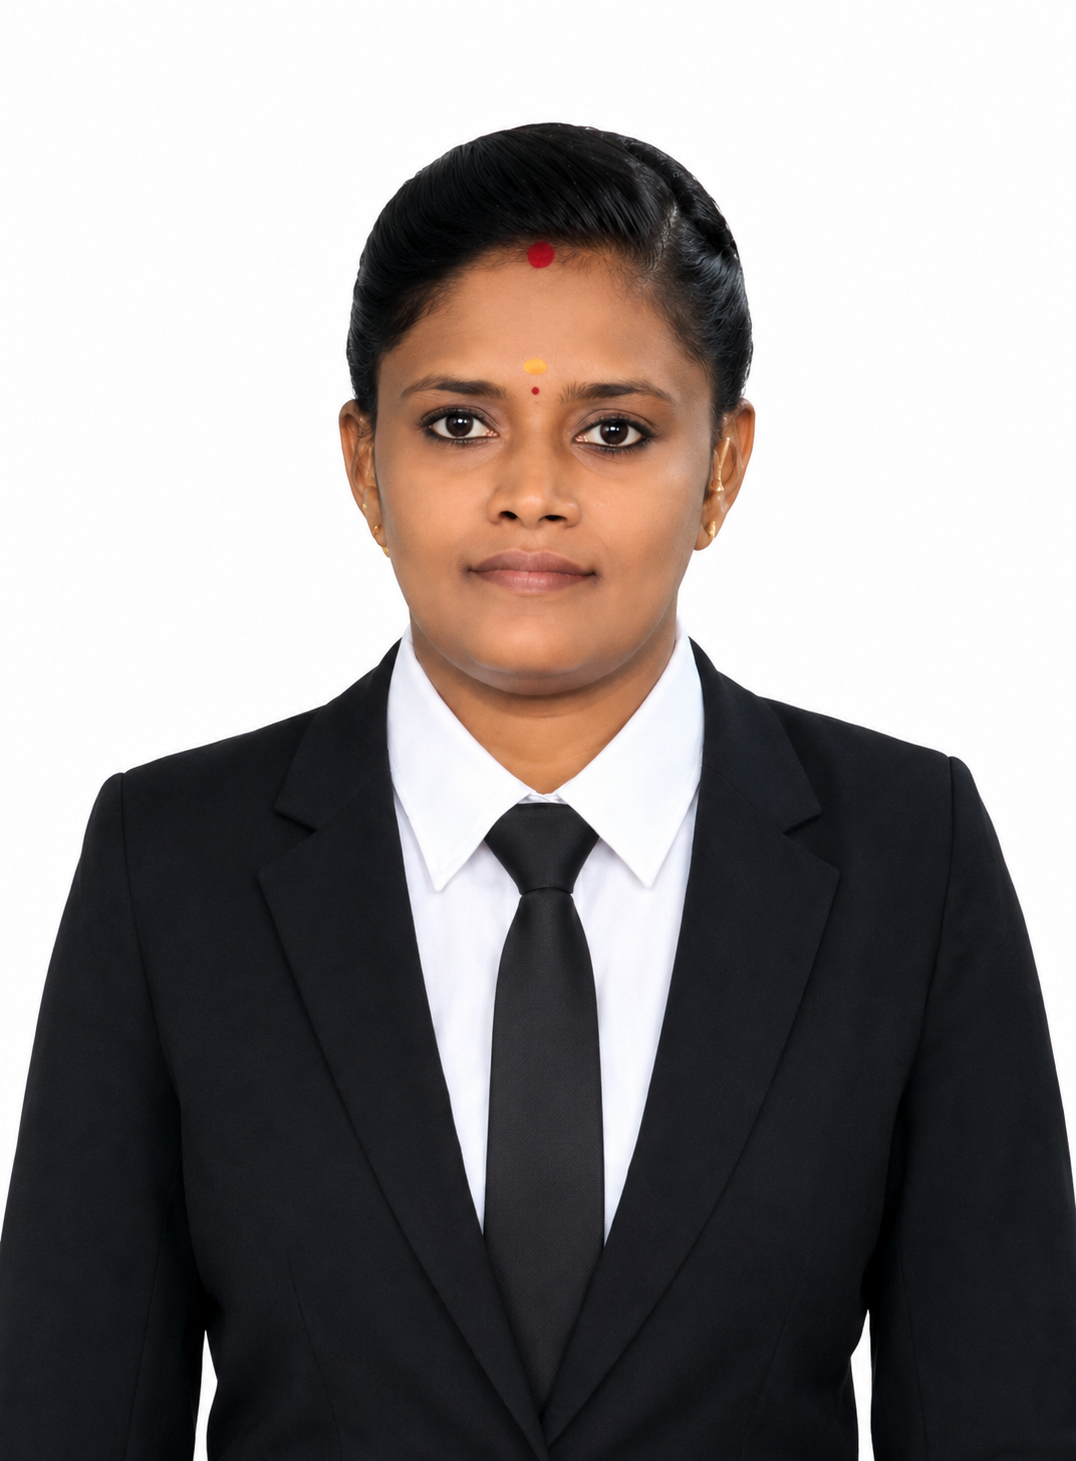
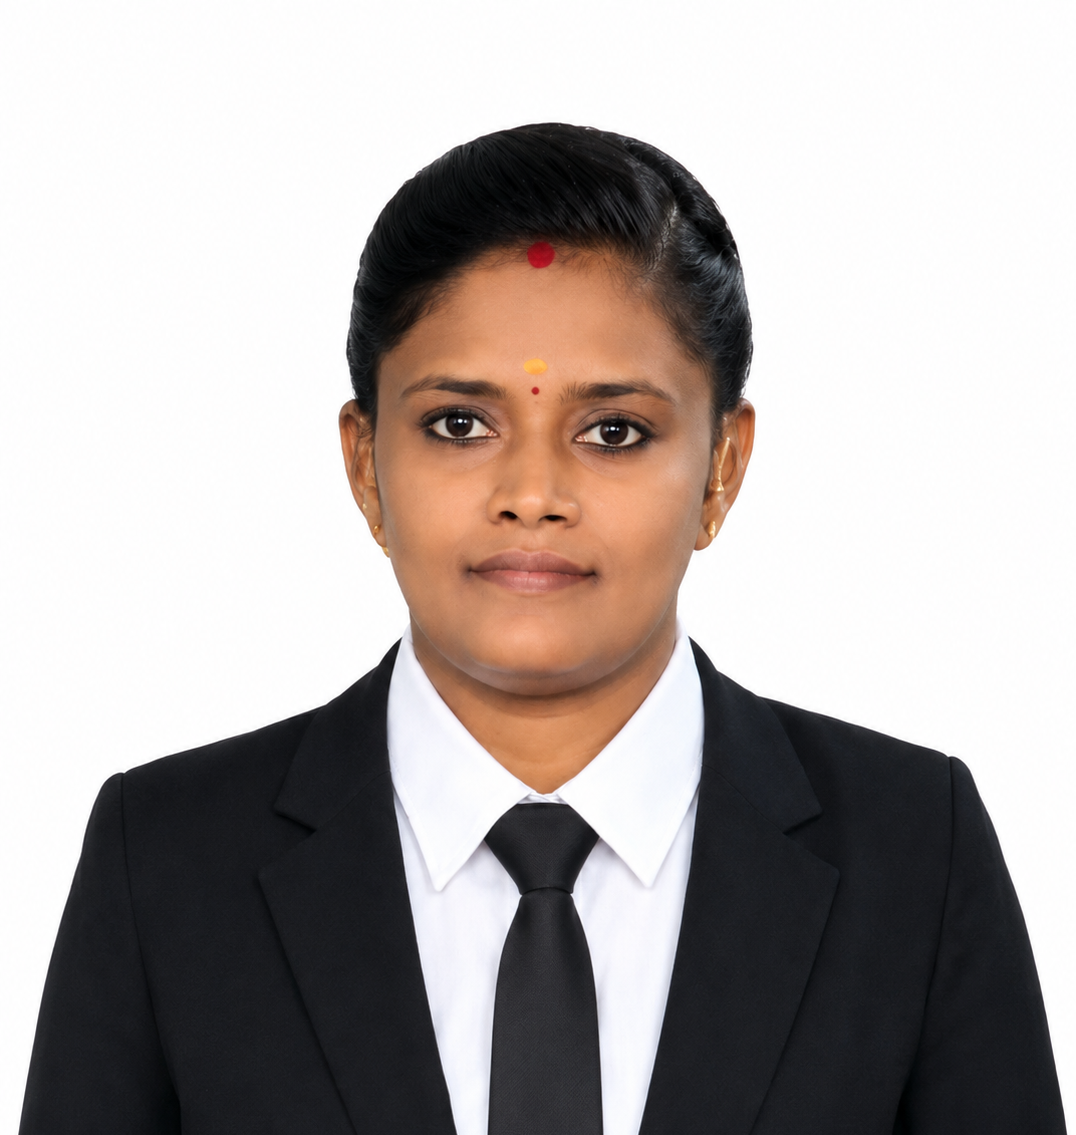
Updates

diff --git a/index.html b/index.html
@@ -5,7 +5,7 @@
     <link rel="icon" type="image/svg+xml" href="/on.svg" />
     <meta name="viewport" content="width=device-width, initial-scale=1.0" />
     <title>wtsf</title>
-    <script type="module" crossorigin src="/wtsf/assets/index-0wLn0CZz.js"></script>
+    <script type="module" crossorigin src="/wtsf/assets/index-D91q9kby.js"></script>
     <link rel="stylesheet" crossorigin href="/wtsf/assets/index-BUJzXhiX.css">
   </head>
   <body>